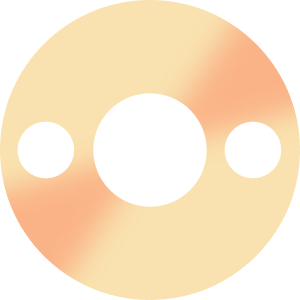
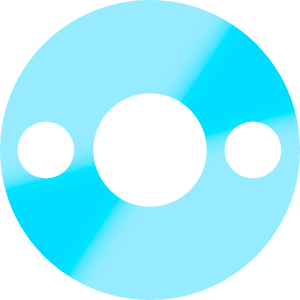
recolour

diff --git a/quartz.config.ts b/quartz.config.ts
@@ -14,6 +14,17 @@ const mocha = {
   highlight: "#313244", // Mocha/Surface0
 };
 
+const neo = {
+  light:     "#0E0E10",
+  lightgray: "#363638",
+  gray:      "#363638",
+  darkgray:  "#ffffff",
+  dark:      "#ffffff",
+  secondary: "#73C2FB",
+  tertiary:  "#416885",
+  highlight: "#1f2c37"
+}
+
 const config: QuartzConfig = {
   configuration: {
     pageTitle: "jahinzee",
@@ -32,8 +43,8 @@ const config: QuartzConfig = {
         code: "Fira Mono",
       },
       colors: {
-        lightMode: mocha,
-        darkMode: mocha
+        lightMode: neo,
+        darkMode: neo
       },
     },
   },
